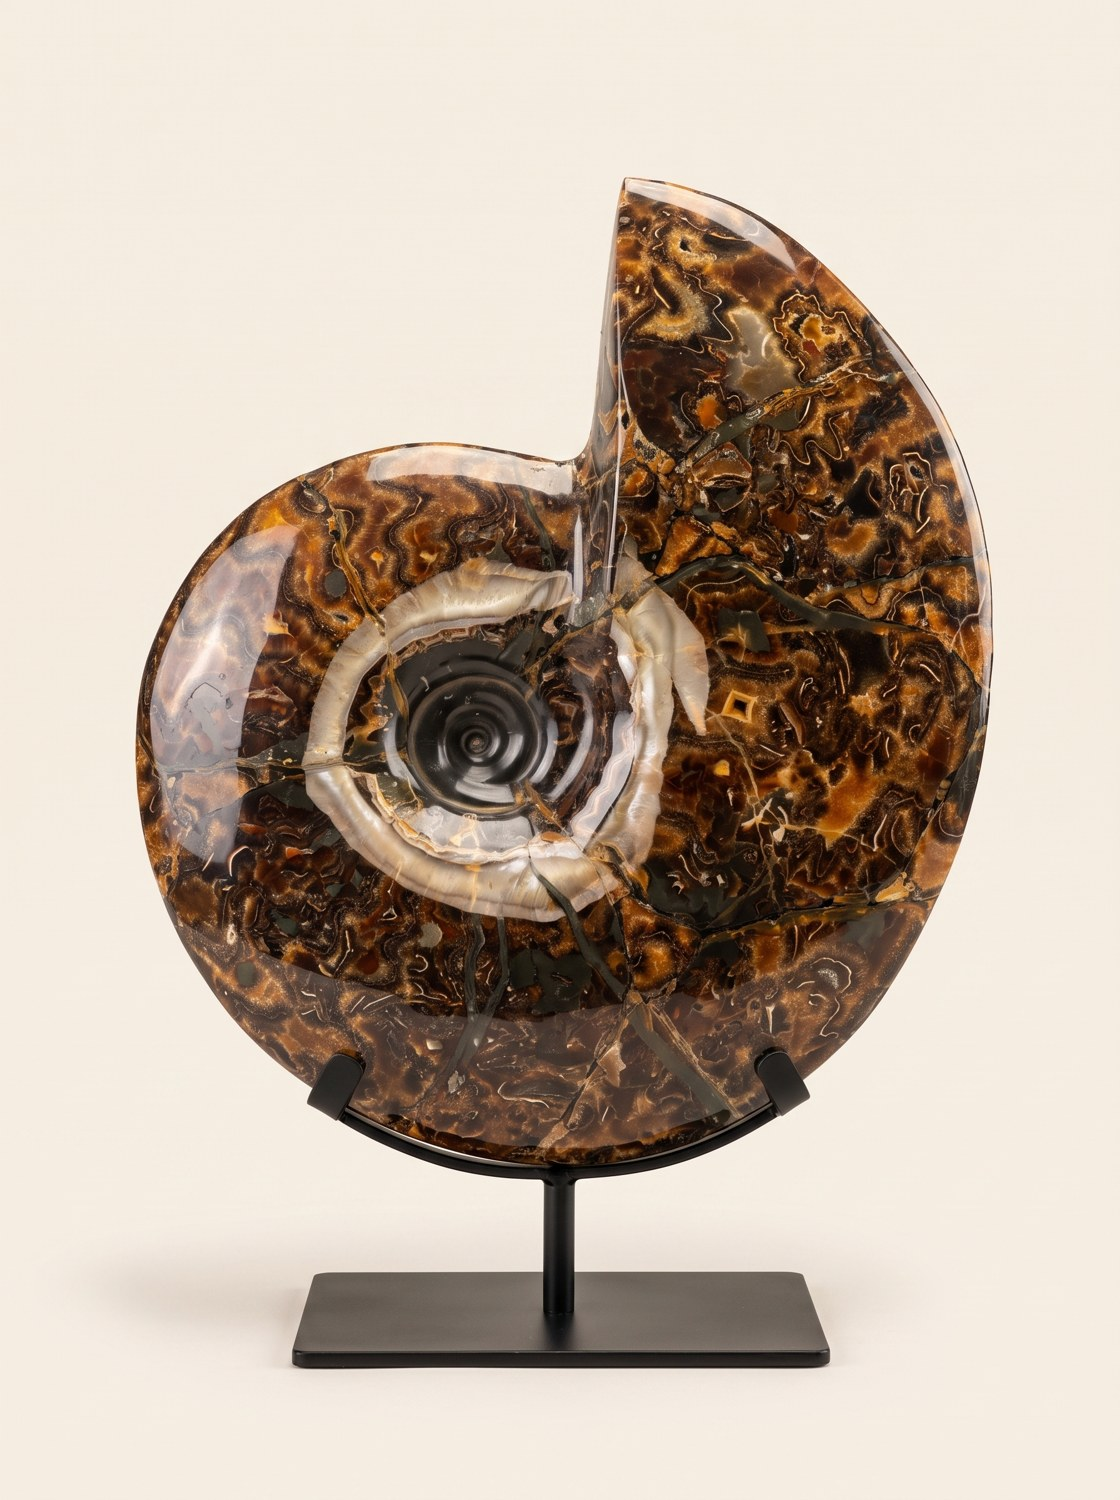
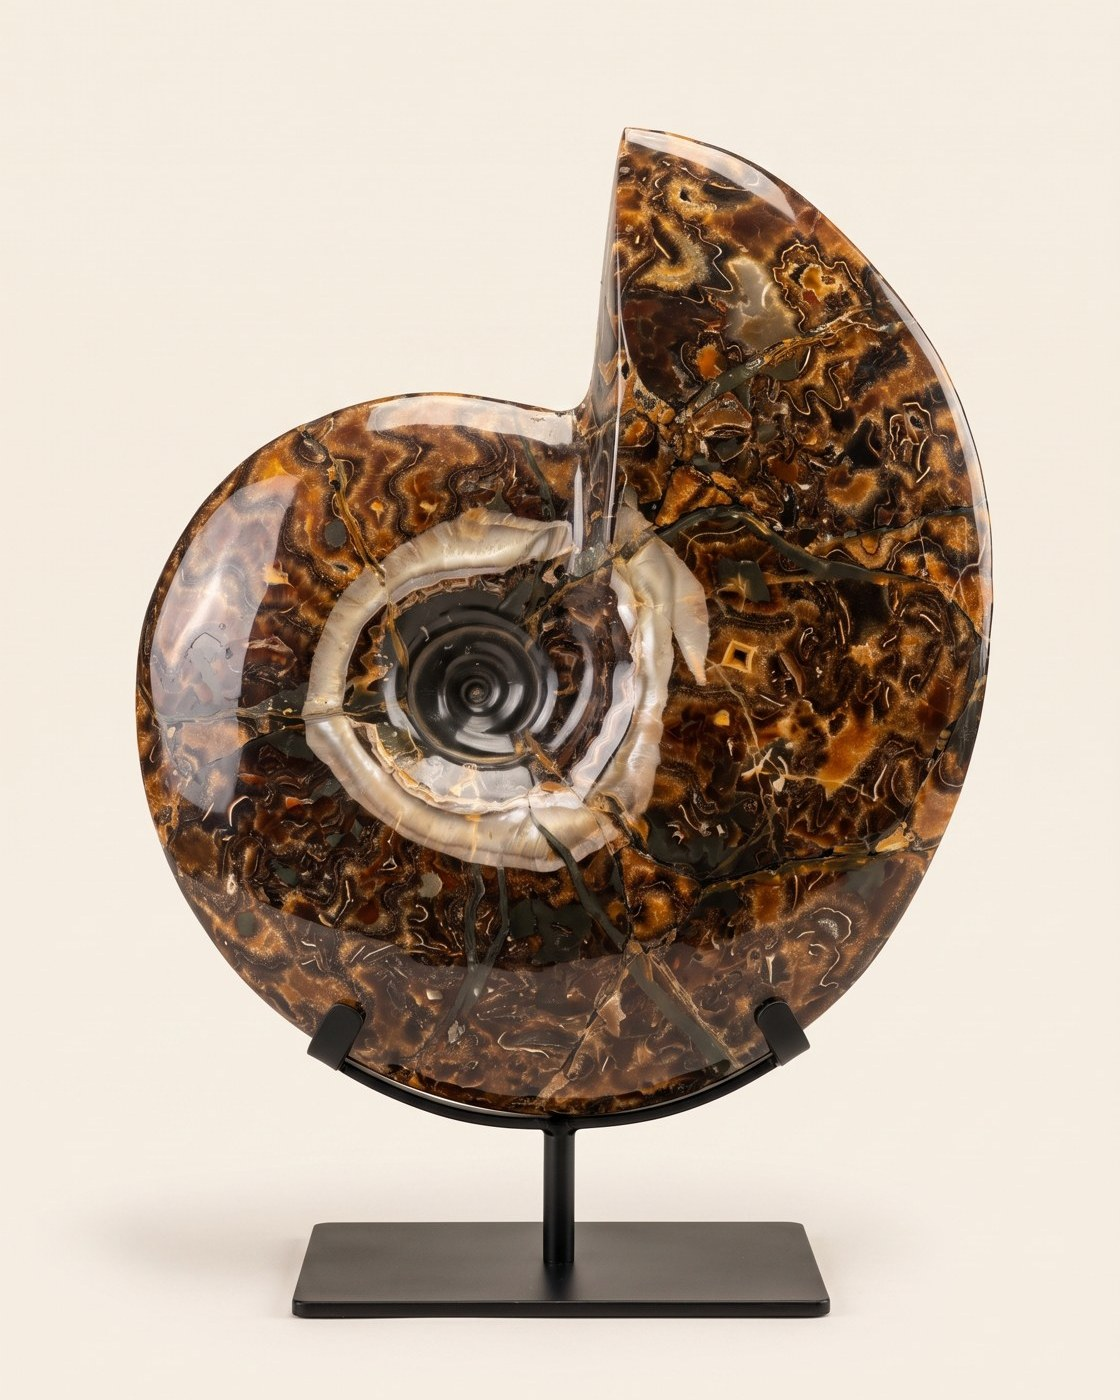
каноны мозазавра, аммонита и зуба мегалодона кроплены в стандартный формат 4:5 — без зазоров в контейнере

Changed region(s): [[0.125, 0.0921, 0.9062, 0.9521]]

diff --git a/16_product_promos/promo-data.js b/16_product_promos/promo-data.js
@@ -3547,7 +3547,7 @@ window.RELICTUM_PROMO = {
         "Мозазавры исчезли на границе мелового и палеогенового периодов — вместе с нептичьими динозаврами. Их черепа из фосфатных отложений сохраняют зубные ряды в анатомической связи."
       ]
     },
-    "era": { "title": "Последние моря мела", "line": "Меловой период, ≈ 72–66 млн лет назад", "href": "../15_concepts/era-cretaceous.html" },
+    "era": { "title": "Последние меловые моря", "line": "Меловой период, ≈ 72–66 млн лет назад", "href": "../15_concepts/era-cretaceous.html" },
     "interior": { "img": "int_ph_mosasaurus_skull.jpg", "text": "Череп на изогнутой чёрной дуге встаёт на каменный столик у дивана: приглушённый свет, зубной ряд в профиль — и предмет держит комнату без витрины." },
     "gallery": ["int_ph_mosasaurus_skull.jpg"]
   },
